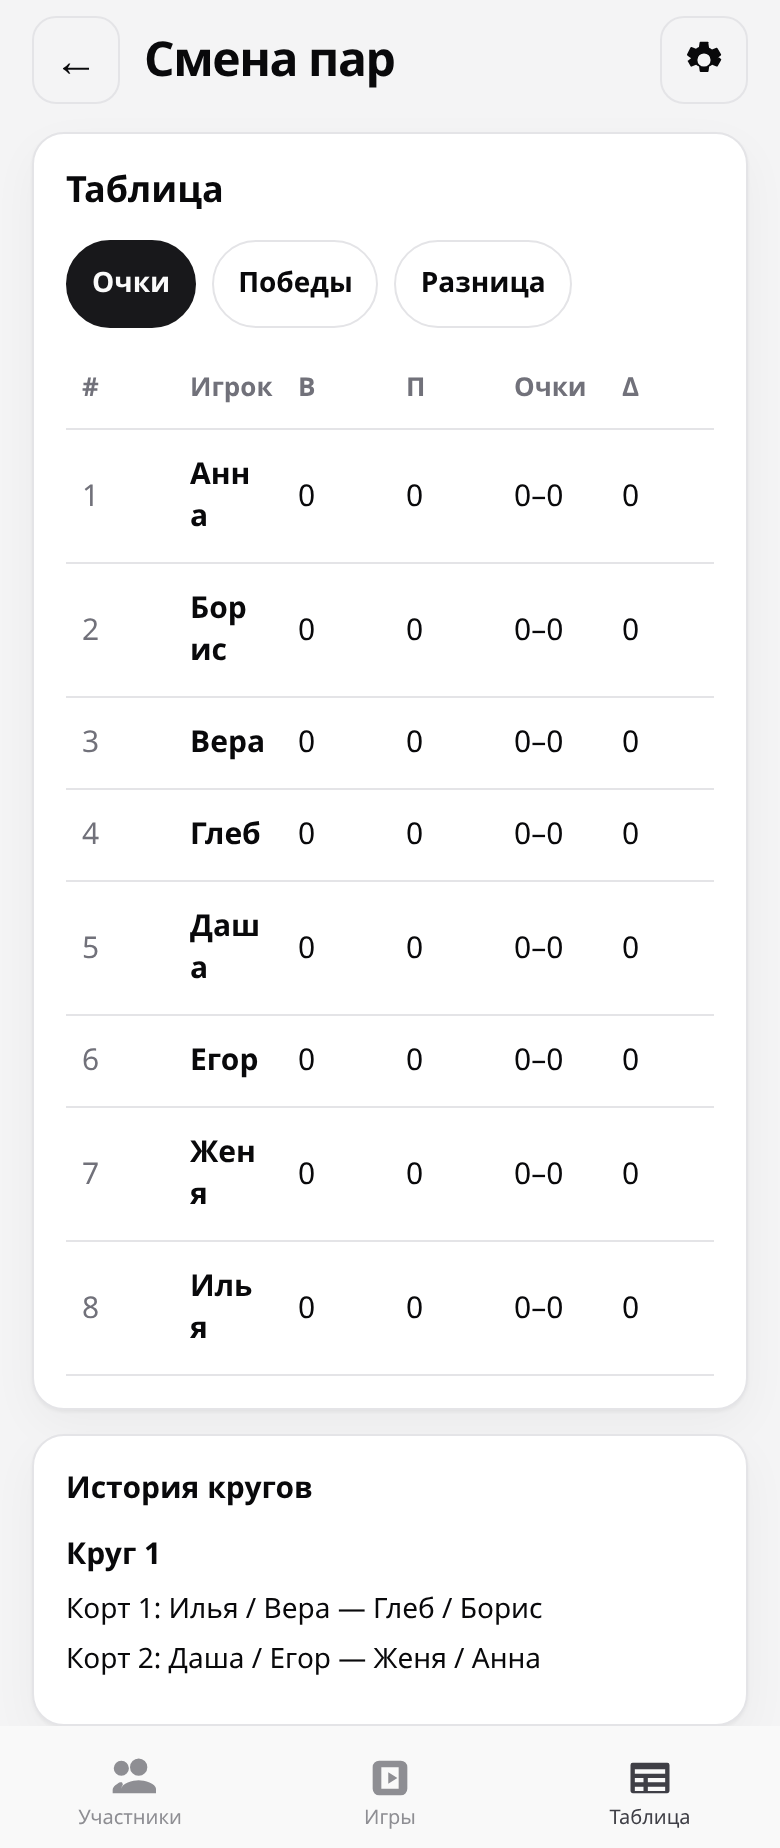
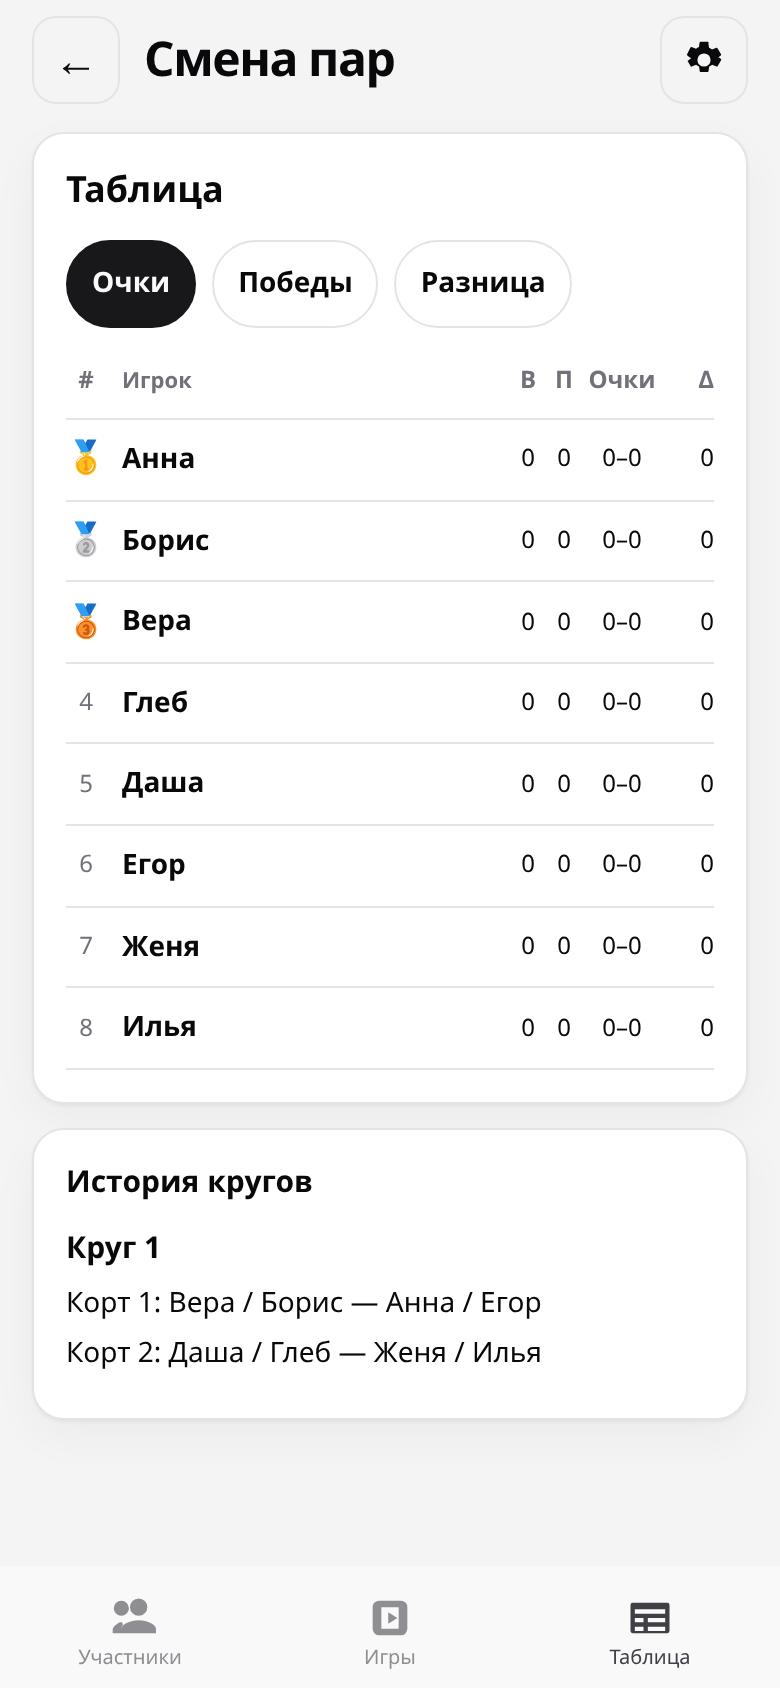
fix(tracker): compact standings medals and name column (0.7.18)
Places 1–3 show medals in the # column, 4+ stay numbered. Stat
columns shrink; names stay on one line. Best-girl badge sits above
the name. Bump 0.7.18.

diff --git a/tracker/js/render.js b/tracker/js/render.js
@@ -8,7 +8,7 @@ import {
   scoreWheelMax,
   settingsForRound,
 } from './scoring.js';
-import { computeStandings, sortStandings, standingMarks } from './standings.js';
+import { computeStandings, sortStandings, standingMarks, standingPlace } from './standings.js';
 import { autoCourts, compactMatchLine, compactSittingLine, formatMatchLine, genderCounts } from './pairing.js';
 import { FORMAT_OPTIONS, formatTitle, pairEscaleraCycleComplete } from './formats.js';
 import { PAIR_CHANGE_METHODS } from './fixed.js';
@@ -916,21 +916,26 @@ function renderTable(store, tournament) {
   );
   const playersById = new Map(tournament.players.map((p) => [p.id, p]));
   const finished = isFinished(tournament);
-  const marks = finished ? standingMarks(rows) : [];
+  const marks = standingMarks(rows);
   const body = rows
     .map((r, i) => {
       const mark = marks[i];
-      const extras = [];
-      if (mark?.medal) extras.push(`<span class="medal" aria-hidden="true">${mark.medal}</span>`);
-      if (mark?.bestWoman) extras.push('<span class="best-woman">🎉 лучшая девушка</span>');
+      const place = standingPlace(i);
+      const placeCell = place.medal
+        ? `<span class="place-medal" aria-hidden="true">${place.medal}</span>`
+        : esc(place.label);
+      const girl =
+        finished && mark?.bestWoman
+          ? `<span class="best-woman">🎉 лучшая девушка</span>`
+          : '';
       return `
       <tr>
-        <td class="num">${i + 1}</td>
-        <td class="name">${esc(r.name)}${extras.length ? ` ${extras.join(' ')}` : ''}</td>
-        <td>${r.wins}</td>
-        <td>${r.losses}</td>
-        <td>${r.pointsFor}–${r.pointsAgainst}</td>
-        <td class="${r.delta > 0 ? 'pos' : r.delta < 0 ? 'neg' : ''}">${r.delta > 0 ? '+' : ''}${r.delta}</td>
+        <td class="num" aria-label="${place.n}">${placeCell}</td>
+        <td class="name">${girl}<span class="player-name">${esc(r.name)}</span></td>
+        <td class="stat">${r.wins}</td>
+        <td class="stat">${r.losses}</td>
+        <td class="pts">${r.pointsFor}–${r.pointsAgainst}</td>
+        <td class="delta ${r.delta > 0 ? 'pos' : r.delta < 0 ? 'neg' : ''}">${r.delta > 0 ? '+' : ''}${r.delta}</td>
       </tr>`;
     })
     .join('');
@@ -963,12 +968,12 @@ function renderTable(store, tournament) {
           <table class="standings">
             <thead>
               <tr>
-                <th>#</th>
-                <th>Игрок</th>
-                <th>В</th>
-                <th>П</th>
-                <th>Очки</th>
-                <th>Δ</th>
+                <th class="num">#</th>
+                <th class="name">Игрок</th>
+                <th class="stat">В</th>
+                <th class="stat">П</th>
+                <th class="pts">Очки</th>
+                <th class="delta">Δ</th>
               </tr>
             </thead>
             <tbody>${body || '<tr><td colspan="6" class="empty">Нет результатов</td></tr>'}</tbody>

diff --git a/tracker/styles.css b/tracker/styles.css
@@ -548,21 +548,65 @@ html.is-backup-open body {
   cursor: pointer;
 }
 .table-wrap { overflow-x: hidden; max-width: 100%; }
-.standings { width: 100%; max-width: 100%; table-layout: fixed; border-collapse: collapse; font-size: 15px; }
+.standings { width: 100%; max-width: 100%; table-layout: fixed; border-collapse: collapse; font-size: 14px; }
 .standings th, .standings td {
   text-align: left;
-  padding: 12px 8px;
+  padding: 10px 2px;
   border-bottom: 1px solid var(--border);
   min-height: 48px;
+  vertical-align: middle;
 }
-.standings th { color: var(--muted); font-size: 13px; font-weight: 600; }
-.standings .num { width: 28px; color: var(--muted); }
-.standings .name { font-weight: 600; overflow-wrap: anywhere; }
-.standings .medal { font-style: normal; }
+.standings th { color: var(--muted); font-size: 11px; font-weight: 600; }
+.standings .num {
+  width: 22px;
+  padding-left: 0;
+  padding-right: 2px;
+  color: var(--muted);
+  text-align: center;
+  font-size: 12px;
+  font-variant-numeric: tabular-nums;
+  white-space: nowrap;
+}
+.standings .place-medal { font-size: 16px; line-height: 1; font-style: normal; }
+.standings .stat {
+  width: 18px;
+  padding-left: 0;
+  padding-right: 0;
+  text-align: center;
+  font-size: 12px;
+  font-variant-numeric: tabular-nums;
+  white-space: nowrap;
+}
+.standings .pts {
+  width: 40px;
+  padding-left: 2px;
+  padding-right: 2px;
+  text-align: center;
+  font-size: 12px;
+  font-variant-numeric: tabular-nums;
+  white-space: nowrap;
+}
+.standings .delta {
+  width: 26px;
+  padding-left: 0;
+  padding-right: 0;
+  text-align: right;
+  font-size: 12px;
+  font-variant-numeric: tabular-nums;
+  white-space: nowrap;
+}
+.standings .name { font-weight: 600; padding-left: 6px; padding-right: 4px; }
+.standings .player-name {
+  display: block;
+  white-space: nowrap;
+  overflow: hidden;
+  text-overflow: ellipsis;
+}
 .standings .best-woman {
-  display: inline-block;
-  margin-left: 4px;
-  font-size: 13px;
+  display: block;
+  margin: 0 0 2px;
+  font-size: 11px;
+  line-height: 1.2;
   font-weight: 600;
   color: var(--muted);
   white-space: nowrap;

diff --git a/tracker/js/standings.js b/tracker/js/standings.js
@@ -88,7 +88,14 @@ export function sortStandings(rows, sort) {
   return copy;
 }
 
-const MEDALS = ['🥇', '🥈', '🥉'];
+export const PLACE_MEDALS = ['🥇', '🥈', '🥉'];
+
+/** Место после текущей сортировки: 1–3 медаль, дальше номер. Ничья — как в таблице (имя). */
+export function standingPlace(index) {
+  const n = index + 1;
+  const medal = index < 3 ? PLACE_MEDALS[index] : '';
+  return { n, medal, label: medal || String(n) };
+}
 
 /** Медали 1–3 и 🎉 лучшая девушка (по полу F). Без женщин или без пола — без 🎉. */
 export function standingMarks(rows) {
@@ -96,7 +103,7 @@ export function standingMarks(rows) {
   const bestWomanId = hasGender ? rows.find((r) => r.gender === 'F')?.id || null : null;
   return rows.map((r, i) => ({
     id: r.id,
-    medal: i < 3 ? MEDALS[i] : '',
+    medal: standingPlace(i).medal,
     bestWoman: Boolean(bestWomanId && r.id === bestWomanId),
   }));
 }

diff --git a/tracker/index.html b/tracker/index.html
@@ -26,12 +26,12 @@
     <link rel="manifest" href="./manifest.webmanifest" />
     <link rel="apple-touch-icon" href="./icons/apple-touch-icon.png" sizes="180x180" />
     <link rel="icon" type="image/png" href="./icons/icon-192.png" sizes="192x192" />
-    <link rel="stylesheet" href="./styles.css?v=0.7.17" />
+    <link rel="stylesheet" href="./styles.css?v=0.7.18" />
   </head>
   <body>
     <div id="app">Загрузка…</div>
     <input id="import-file" type="file" accept="application/json,.json" hidden />
-    <script type="module" src="./js/app.js?v=0.7.17"></script>
+    <script type="module" src="./js/app.js?v=0.7.18"></script>
     <script>
       if ('serviceWorker' in navigator) {
         navigator.serviceWorker.register('./sw.js', { scope: './' }).catch(function () {});

diff --git a/tracker/sw.js b/tracker/sw.js
@@ -1,5 +1,5 @@
 /* Версия кэша = cache-bust трекера. При релизе подними вместе с ?v= в index.html. */
-const VERSION = '0.7.17';
+const VERSION = '0.7.18';
 const CACHE = `padel-tracker-v${VERSION}`;
 const ASSETS = [
   './',

diff --git a/CHANGELOG.md b/CHANGELOG.md
@@ -1,5 +1,11 @@
 # Changelog
 
+## 0.7.18 — медали в колонке места, шире имена
+
+- В таблице и в итоге места 1–3 — медали 🥇🥈🥉 (без цифры рядом), с 4-го — номера. Дубль медали у имени убран.
+- Колонки места, В, П и Δ узкие, имя занимает оставшуюся ширину: «Наташа» / «Александр» в одну строку на 375–390px.
+- Бейдж «🎉 лучшая девушка» над именем отдельной строкой, не сжимает имя.
+
 ## 0.7.17 — парная эскалера на 8 человек
 
 - Новый режим «Парная эскалера на 8 чел»: пары по таблице (1+последний; при М+Ж — с конца списка первый другого пола), затем круговой график из трёх кругов на двух кортах. Очки пар идут каждому игроку.
